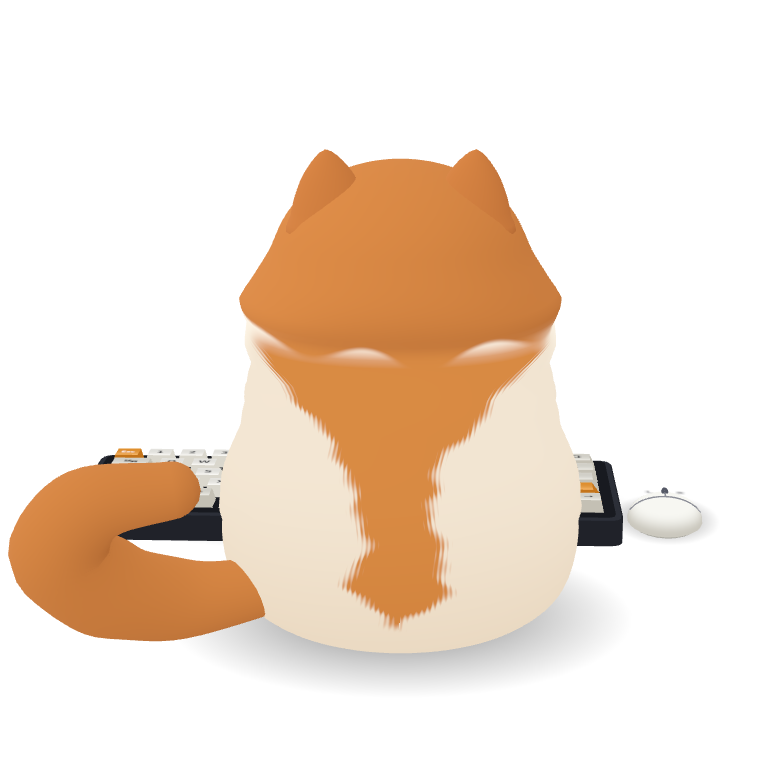
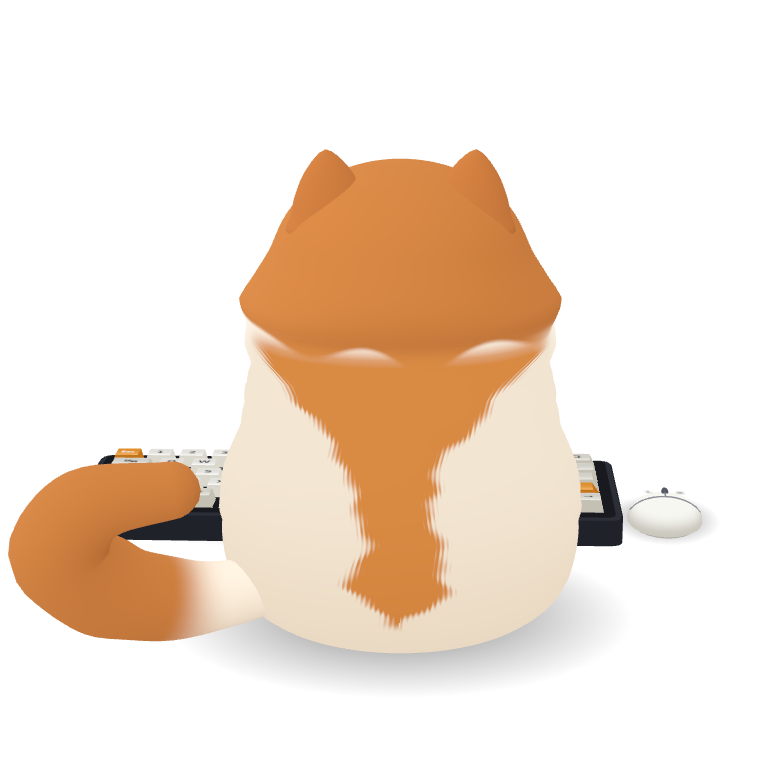
fix: hide Facai tail root from front view

Changed region(s): [[0.2154, 0.7077, 0.3385, 0.8308]]

diff --git a/src/longhair3d.ts b/src/longhair3d.ts
@@ -192,7 +192,7 @@ function makeCoatGeometry(
   return geometry;
 }
 
-function sculptMaterial(part: 'COAT' | 'EAR' | 'LIMB' | 'SOLID'): THREE.ShaderMaterial {
+function sculptMaterial(part: 'COAT' | 'EAR' | 'LIMB' | 'SOLID' | 'TAIL'): THREE.ShaderMaterial {
   return new THREE.ShaderMaterial({
     defines: { [part]: 1 },
     uniforms: {
@@ -221,6 +221,10 @@ function sculptMaterial(part: 'COAT' | 'EAR' | 'LIMB' | 'SOLID'): THREE.ShaderMa
       #endif
       varying vec3 vLocation, vNormal, vView;
       varying vec2 vWorldXY;
+      #ifdef TAIL
+        attribute float along;
+        varying float vAlong;
+      #endif
       void main() {
         vec4 posed = vec4(position, 1.0);
         vec3 posedNormal = normal;
@@ -236,6 +240,9 @@ function sculptMaterial(part: 'COAT' | 'EAR' | 'LIMB' | 'SOLID'): THREE.ShaderMa
           posedNormal = mix(mat3(uTorsoPose) * normal, mat3(uHeadPose) * normal, bend);
         #else
           vLocation = position;
+        #endif
+        #ifdef TAIL
+          vAlong = along;
         #endif
         vWorldXY = (modelMatrix * posed).xy;
         vNormal = normalMatrix * posedNormal;
@@ -253,6 +260,9 @@ function sculptMaterial(part: 'COAT' | 'EAR' | 'LIMB' | 'SOLID'): THREE.ShaderMa
       #endif
       varying vec3 vLocation, vNormal, vView;
       varying vec2 vWorldXY;
+      #ifdef TAIL
+        varying float vAlong;
+      #endif
 
       float oval(vec2 p, vec2 center, vec2 size) {
         return 1.0 - smoothstep(0.89, 1.05, length((p - center) / size));
@@ -367,6 +377,8 @@ function sculptMaterial(part: 'COAT' | 'EAR' | 'LIMB' | 'SOLID'): THREE.ShaderMa
           color = mix(color, uGinger, inner * 0.95);
           float tuftEdge = 0.125 + 0.012 * sin(90.0 * p.x);
           color = mix(color, uRuff, inner * (1.0 - smoothstep(tuftEdge - 0.013, tuftEdge + 0.010, p.y)) * 0.83);
+        #elif defined(TAIL)
+          color = mix(uRuff, color, smoothstep(0.12, 0.28, vAlong));
         #endif
 
         // Broad studio key, warm bounce and a soft edge give the matte sculpt volume.
@@ -577,7 +589,8 @@ export class LonghairModel3D {
   public readonly head = new THREE.Group();
   public readonly ears: THREE.Group[] = [];
   public readonly hitMeshes: THREE.Mesh[];
-  public readonly tailMaterial = sculptMaterial('SOLID');
+  public readonly tailMaterial = sculptMaterial('TAIL');
+  public readonly tailCapMaterial = sculptMaterial('SOLID');
   public readonly limbMaterial = sculptMaterial('LIMB');
   public readonly swatPaw = new LonghairSwatPaw3D(this.limbMaterial);
   public readonly forelegs = [
@@ -699,6 +712,8 @@ export class LonghairModel3D {
     setCoatColors(this.earCoat, skin.earOuterColor ?? ginger, innerEar, innerEar, skin.earTuftColor ?? skin.furColor);
     setCoatColors(this.noseCoat, skin.noseColor ?? '#df8781');
     setCoatColors(this.tailMaterial, skin.tailColor ?? ginger);
+    this.tailMaterial.uniforms.uRuff.value.set(ruff);
+    setCoatColors(this.tailCapMaterial, skin.tailColor ?? ginger);
     for (const eye of this.eyes) {
       eye.uniforms.uTop.value.set(skin.eyeColorTop);
       eye.uniforms.uBottom.value.set(skin.eyeColorBottom ?? '#eec268');

diff --git a/src/catEngine3d.ts b/src/catEngine3d.ts
@@ -103,6 +103,7 @@ function createCleanLimb(
     segments: number;
     radial: number;
     fill: THREE.Material;
+    capFill?: THREE.Material;
     order?: number;
     capStart?: boolean;
     capEnd?: boolean;
@@ -117,7 +118,7 @@ function createCleanLimb(
   if (opts.capStart !== false) capTs.push(0);
   if (opts.capEnd !== false) capTs.push(1);
   for (let i = 0; i < capTs.length; i++) {
-    const cap = new THREE.Mesh(CAP_GEO, opts.fill);
+    const cap = new THREE.Mesh(CAP_GEO, opts.capFill ?? opts.fill);
     cap.renderOrder = order;
     parent.add(cap);
     caps.push(cap);
@@ -1634,6 +1635,7 @@ export class KuroCatEngine3D {
           segments: 38,
           radial: 16,
           fill: model.tailMaterial,
+          capFill: model.tailCapMaterial,
           capStart: false,
         });
         this.longhairModel = model;

diff --git a/docs/skins/orange-white-longhair/back-markings.md b/docs/skins/orange-white-longhair/back-markings.md
@@ -19,7 +19,7 @@
 
 ![正面特征、挥爪与入睡修改前后](back-markings-features.png)
 
-白鼻梁条、鼻旁橘斑、白毛领、白手套和橘色大尾巴继续使用原有造型和配色。正面截图的面部/鼻斑取样区域共 70,400 像素，仅 1 像素超过 2 色阶差异（最大差异 4）；白毛领、白手套、橘尾巴取样区域逐像素一致。比较脚本会自动验证这些区域。
+白鼻梁条、鼻旁橘斑、白毛领和白手套继续使用原有造型和配色。尾巴主体保持橘色，埋在白色身体里的根部使用白毛过渡，避免正面右侧露出橘色小块。正面截图的面部/鼻斑、白毛领和白手套取样区域由比较脚本自动验证；运行检查另会断言正面右侧身体没有橘色像素，且尾巴主体保留橘色。
 
 ## 验证与复现
 
@@ -39,6 +39,7 @@ npm run test:back-markings
 - 6 个固定视角、左右挥爪各 25 帧、左右挥爪正面各 1 帧、入睡过渡 30 帧和入睡侧面，共 89 张透明 PNG。
 - 每张检查 WebGL alpha、透明背景与可见的宠物像素，并捕获浏览器和 GLSL 错误。
 - 在实际背部网格上定位后读取 GPU 像素：肩部 3 点、脊柱 3 点应为橘色；左右体侧、左右髋部、臀部共 5 点应为白色。
+- 正面右侧身体取样区域的橘色像素必须为 0，尾巴主体取样区域必须保留超过 1,000 个橘色像素。
 - 原有挥爪单元测试及浏览器交互检查覆盖概率、左右选爪、肉垫/爪尖、抓痕、隐私中断、选键和动作结束后的恢复。
 
 重新生成修改前截图时，Vite 只在内存中加载指定提交的原材质，不修改当前工作区：
